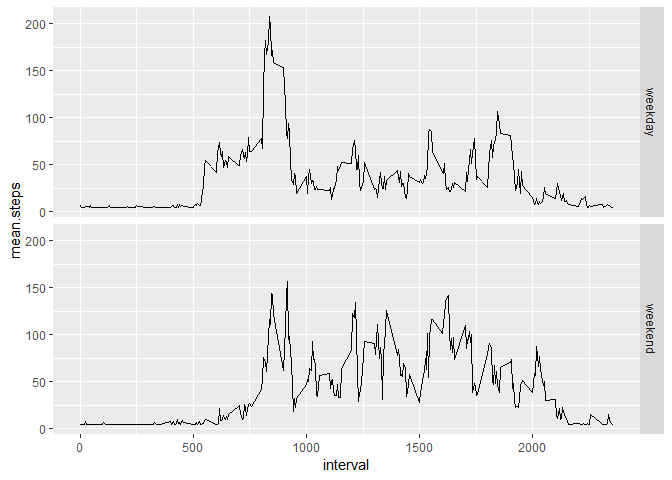
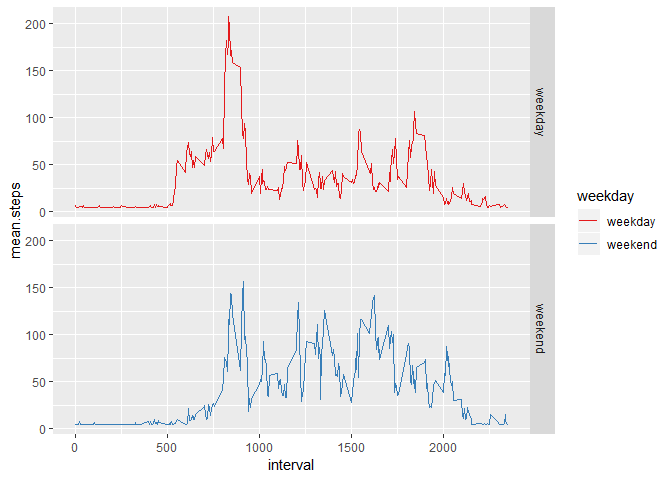
Added colors to last figure

diff --git a/PA1_template.html b/PA1_template.html
@@ -396,7 +396,8 @@ $(document).ready(function () {
 ##   [.quosures     rlang
 ##   c.quosures     rlang
 ##   print.quosures rlang</code></pre>
-<pre class="r"><code>activ &lt;- read.csv(&quot;./activity.csv&quot;)
+<pre class="r"><code>library(RColorBrewer)
+activ &lt;- read.csv(&quot;./activity.csv&quot;)
 activ$date &lt;- ymd(activ$date)</code></pre>
 <p>At first sight, we see that we have missing values (NA) in our data. Let’s first explore the data as it is before dealing with missing values.</p>
 </div>
@@ -433,7 +434,6 @@ endtop.minute &lt;- (top.interval+5)%%100</code></pre>
 <h2>Imputing missing values</h2>
 <p>Let’s address the missing values.</p>
 <pre class="r"><code>nbna &lt;- sum(is.na(activ$steps))
-##activ_clean &lt;- subset(activ, !is.na(activ$steps))
 
 mean.interval &lt;- mean.day/(288)
 activ2 &lt;- activ
@@ -471,9 +471,12 @@ table(activ2$weekday)</code></pre>
 ##   12960    4608</code></pre>
 <pre class="r"><code>by5min &lt;- aggregate(activ2$steps,list(activ2$interval, activ2$weekday), mean)
 colnames(by5min) &lt;- c(&quot;interval&quot;, &quot;weekday&quot;,&quot;mean.steps&quot;)
-ggplot(data = by5min, aes(x = interval,y = mean.steps)) + geom_line() + facet_grid(weekday~.)</code></pre>
[1 lines of base64/hex data omitted]
-<p>We can notice differences in the subject’s activity depending on the day of the week. During the weekdays, activity peaks in the morning and then remains at a lower level during much of the day. By contrast, activity starts later during the weekends and then remains steady during the day until the evening.</p>
+myColors &lt;- brewer.pal(3,&quot;Set1&quot;)
+names(myColors) &lt;- levels(by5min$weekday)
+colScale &lt;- scale_colour_manual(name = &quot;weekday&quot;,values = myColors)
+ggplot(data = by5min, aes(x = interval,y = mean.steps, colour = weekday)) + geom_line() + facet_grid(weekday~.) + colScale</code></pre>
[1 lines of base64/hex data omitted]
+<p>We can notice differences in the subject’s activity depending on the day of the week. During the weekdays, activity peaks in the morning and then remains at a lower level during much of the day. By contrast, activity starts later during the weekends and then remains volatile with ups and downs all day until the evening.</p>
 <p>Thanks for the review !</p>
 </div>
 

diff --git a/PA1_template.md b/PA1_template.md
@@ -43,6 +43,7 @@ library(ggplot2)
 ```
 
 ```r
+library(RColorBrewer)
 activ <- read.csv("./activity.csv")
 activ$date <- ymd(activ$date)
 ```
@@ -115,7 +116,6 @@ Let's address the missing values.
 
 ```r
 nbna <- sum(is.na(activ$steps))
-##activ_clean <- subset(activ, !is.na(activ$steps))
 
 mean.interval <- mean.day/(288)
 activ2 <- activ
@@ -178,11 +178,14 @@ table(activ2$weekday)
 ```r
 by5min <- aggregate(activ2$steps,list(activ2$interval, activ2$weekday), mean)
 colnames(by5min) <- c("interval", "weekday","mean.steps")
-ggplot(data = by5min, aes(x = interval,y = mean.steps)) + geom_line() + facet_grid(weekday~.)
+myColors <- brewer.pal(3,"Set1")
+names(myColors) <- levels(by5min$weekday)
+colScale <- scale_colour_manual(name = "weekday",values = myColors)
+ggplot(data = by5min, aes(x = interval,y = mean.steps, colour = weekday)) + geom_line() + facet_grid(weekday~.) + colScale
 ```
 
 ![](PA1_template_files/figure-html/q4.2-1.png)<!-- -->
 
-We can notice differences in the subject's activity depending on the day of the week. During the weekdays, activity peaks in the morning and then remains at a lower level during much of the day. By contrast, activity starts later during the weekends and then remains steady during the day until the evening. 
+We can notice differences in the subject's activity depending on the day of the week. During the weekdays, activity peaks in the morning and then remains at a lower level during much of the day. By contrast, activity starts later during the weekends and then remains volatile with ups and downs all day until the evening. 
 
 Thanks for the review !
